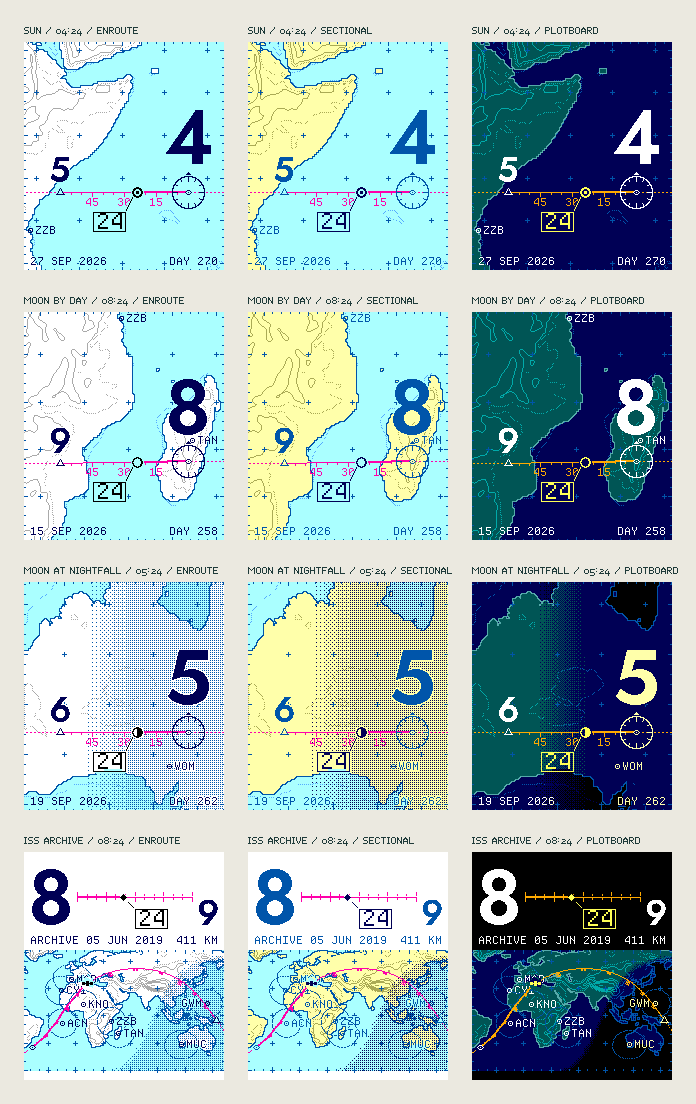
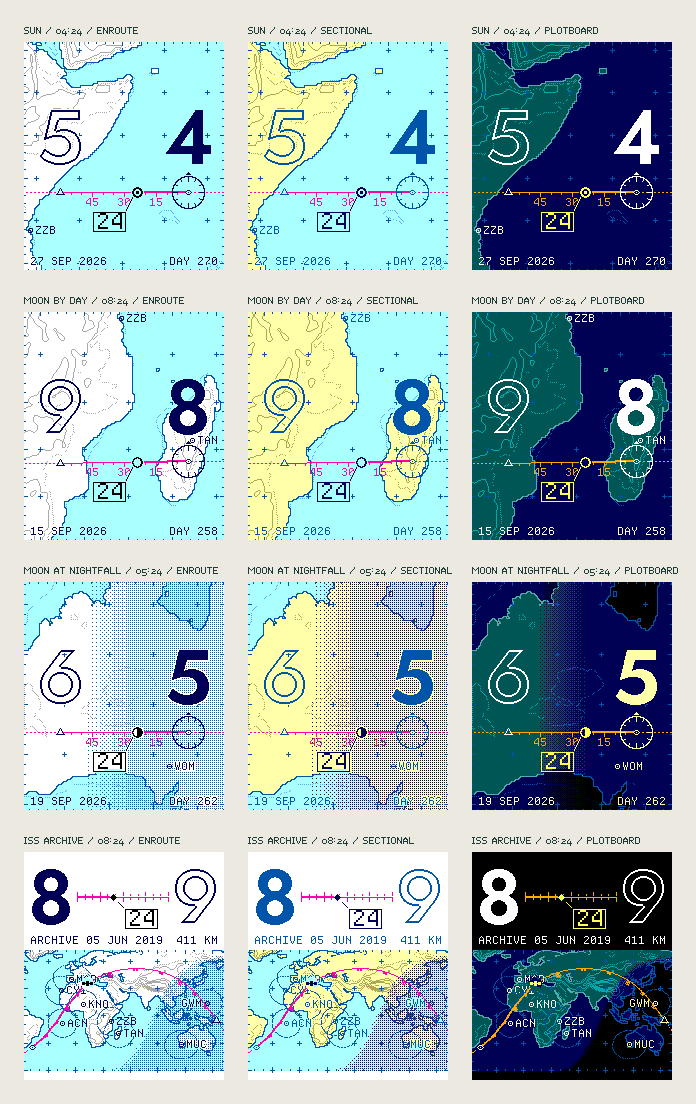
Equal hour figures; track live satellites from CelesTrak
Both hours now share one size and baseline: this hour solid, the next
in outline.

Study 06 can track the ISS, Tiangong, Hubble, Landsat 9 and NOAA-20
from current CelesTrak element sets. Elements are checksum-checked,
cached for two hours as CelesTrak asks, refused beyond three days of
their epoch, and propagated with SGP4. The margin names the element
set in use, uncrewed satellites get their own symbol, and a Now button
brings any view to the current minute. The 2019 ISS archive remains
for offline use and deterministic tests; browser tests intercept
CelesTrak with a re-epoched fixture.

Claude-Session: https://claude.ai/code/session_013jrbqnwLffJYPYurYaCgSZ

diff --git a/index.html b/index.html
@@ -4,14 +4,15 @@
 <main><section class="intro"><div><p class="eyebrow">STUDY 06 / ENROUTE</p><h1>Cleared direct<br>to the next hour.</h1></div><p class="intro-note">An aeronautical chart for the wrist: real relief, a magenta route, and the stations that tracked the first astronauts.</p></section>
 <section class="workshop" aria-label="Enroute watchface study"><div class="stage art-stage"><div class="stage-meta"><span>RELIEF / ROUTE / HOUR</span><span>200 × 228 PX</span></div>
 <div class="watch-wrap"><div class="watch art-case"><canvas id="enroute-watch" width="200" height="228" role="img" aria-label="Enroute watchface"></canvas><span class="watch-mark">pebble</span></div></div><p id="enroute-caption" class="scene-caption">Plotting the route…</p>
-<div class="scrubber"><div class="art-clock-readout"><label for="enroute-minute">Follow the hour</label><output id="enroute-time">04:24</output></div><input id="enroute-minute" type="range" min="0" max="59" value="24"><div class="range-ends"><span id="range-start"></span><button id="enroute-reset">Study moment ↗</button><span id="range-end"></span></div></div></div>
+<div class="scrubber"><div class="art-clock-readout"><label for="enroute-minute">Follow the hour</label><output id="enroute-time">04:24</output></div><input id="enroute-minute" type="range" min="0" max="59" value="24"><div class="range-ends"><span id="range-start"></span><span class="range-actions"><button id="enroute-reset">Study moment ↗</button> · <button id="enroute-now">Now ↗</button></span><span id="range-end"></span></div></div></div>
 <aside class="controls art-controls"><p class="eyebrow">ROUTE &amp; PLATE</p>
 <fieldset><legend>Follow</legend><div class="segmented"><button data-body="sun" aria-pressed="true">Sun</button><button data-body="moon" aria-pressed="false">Moon</button><button data-body="iss" aria-pressed="false">ISS archive</button></div><p class="help" id="body-note"></p></fieldset>
+<fieldset id="live-satellites"><legend>Live satellites</legend><div class="live-row"><select id="sat-select" aria-label="Satellite"></select><button id="sat-track">Track now</button></div><p class="help" id="sat-status">Current orbital elements come from CelesTrak, at most once every two hours per satellite, and are used only within three days of their own epoch.</p></fieldset>
 <fieldset id="moon-light"><legend>Moonlight</legend><div class="segmented"><button data-observation="day" aria-pressed="true">By day</button><button data-observation="dusk" aria-pressed="false">Nightfall</button><button data-observation="night" aria-pressed="false">By night</button></div><p class="help">The same Moon over three evenings. On the paper plates, night is a printed dot tint that deepens through civil twilight.</p></fieldset>
 <fieldset><legend>Plate</legend><div id="enroute-plates" class="theme-options"></div></fieldset>
-<fieldset><legend>Read the chart</legend><p class="help">The large figure is this hour and the small one the next. The symbol between them is the present: its place on the route is the minute, read like a hand. A leader line ties it to a boxed data block with the minute in digits, the way a radar display tags a target; it can be switched off under Clock. The compass rose marks this hour’s station; the open triangle is the next hour’s reporting point. The magenta line is the route, bold behind the marker and fine ahead, with the quarter hours marked. Contours fall every 1,000 m, dotted at 500 m; offshore, the dotted blue line is the 200 m edge of the continental shelf. Three-letter codes are the tracking stations of NASA’s Mercury and Apollo networks. The margin carries the date and its day of the year.</p></fieldset>
+<fieldset><legend>Read the chart</legend><p class="help">The solid figure is this hour and the outlined one the next, set at one size on one baseline. The symbol between them is the present: its place on the route is the minute, read like a hand. A leader line ties it to a boxed data block with the minute in digits, the way a radar display tags a target; it can be switched off under Clock. The compass rose marks this hour’s station; the open triangle is the next hour’s reporting point. The magenta line is the route, bold behind the marker and fine ahead, with the quarter hours marked. Contours fall every 1,000 m, dotted at 500 m; offshore, the dotted blue line is the 200 m edge of the continental shelf. Three-letter codes are the tracking stations of NASA’s Mercury and Apollo networks. The margin carries the date and its day of the year.</p></fieldset>
 <details class="art-options"><summary>Clock</summary><div><label class="select-label" for="enroute-zone">Clock zone<select id="enroute-zone"><option value="America/New_York">Eastern time</option><option value="UTC">UTC</option><option value="Europe/London">London</option><option value="Asia/Kolkata">Kolkata</option></select></label><label class="art-checkbox"><input type="checkbox" id="enroute-24"> 24-hour figures</label><label class="art-checkbox"><input type="checkbox" id="enroute-tag" checked> Minute data block</label></div></details><div class="art-study-date"><span id="enroute-date"></span><span>FROZEN STUDY</span></div></aside></section>
 <section class="compare"><div class="section-heading"><p class="eyebrow">AT READING SIZE</p><p>One display pixel per pixel. The same minute on each plate.</p></div><div id="enroute-proofs" class="comparison-grid"></div></section>
 <section class="reading art-reading"><article><p class="eyebrow">THE CHART</p><h2>Real ground, lightly drawn.</h2><p>Relief comes from NOAA’s ETOPO1 and the USGS GMTED2010 elevation models, generalized and contoured like a jet navigation chart. The continental shelf edge is the real 200 m depth line. Small crosses mark every five degrees, and degree ticks run around the edge like a neatline.</p></article><article><p class="eyebrow">THE ROUTE</p><h2>Two fixes and a magenta line.</h2><p>This hour is a VOR in its compass rose; the next is a reporting point. The route is the magenta line pilots follow on every modern display. The hours stand over their fixes; the minute travels between them in a radar-style data block on a leader line.</p></article><article><p class="eyebrow">THE NETWORK</p><h2>Where the astronauts were heard.</h2><p>Codes like TAN, CRO and GDS mark stations of the Mercury and Apollo tracking networks. For the ISS, each carries its acquisition circle, the reach of a low orbit, as drawn on the world maps of the first mission control rooms.</p></article></section>
-<details class="technical"><summary>About this working study</summary><div><p>This is a browser design study, not an installable watchface. Every watch pixel is one of the display’s 64 RGB222 colors. The map is north-up and equidistant cylindrical; for the Sun and Moon the hour’s two stations sit 128 pixels apart, and the ISS, which travels about 240° of longitude in an hour, is shown on a world band. Scenes are frozen until you interact: there is no animation loop, polling, geolocation or sensor use.</p><p>Coastlines are Natural Earth 1:50m land. Relief is a quarter-degree grid built from the AWS Open Data Terrain Tiles at zoom 3, whose sources there are NOAA ETOPO1 and USGS GMTED2010, both public domain; heights are smoothed before contouring and are not for navigation. Day, civil twilight and night come from the calculated Sun at the selected minute. Tracking-station positions are approximate, from public histories of the networks. Acquisition circles show where a 410 km orbit rises five degrees above each station’s horizon, about 15.6° of arc.</p><p>Sun and Moon positions come from Astronomy Engine. The ISS uses a bounded June 5, 2019 archive from Satellite.js and is not a live prediction. Figures are Jost, after Futura; chart lettering is Departure Mono by Helena Zhang; headlines are Michroma, after Microgramma. All three are SIL OFL 1.1. <a href="./NOTICE.txt">Sources and credits</a>.</p><p id="enroute-diagnostics"></p><p>Other studies: <a href="./study-05.html">chart</a> · <a href="./study-04.html">Shorelight</a> · <a href="./study-03.html">two-ink atlas</a> · <a href="./study-02.html">sculptural globe</a> · <a href="./study-01.html">orbital explorer</a>.</p></div></details>
+<details class="technical"><summary>About this working study</summary><div><p>This is a browser design study, not an installable watchface. Every watch pixel is one of the display’s 64 RGB222 colors. The map is north-up and equidistant cylindrical; for the Sun and Moon the hour’s two stations sit 128 pixels apart, and the ISS, which travels about 240° of longitude in an hour, is shown on a world band. Scenes are frozen until you interact: there is no animation loop, polling, geolocation or sensor use.</p><p>Coastlines are Natural Earth 1:50m land. Relief is a quarter-degree grid built from the AWS Open Data Terrain Tiles at zoom 3, whose sources there are NOAA ETOPO1 and USGS GMTED2010, both public domain; heights are smoothed before contouring and are not for navigation. Day, civil twilight and night come from the calculated Sun at the selected minute. Tracking-station positions are approximate, from public histories of the networks. Acquisition circles show where a 410 km orbit rises five degrees above each station’s horizon, about 15.6° of arc.</p><p>Sun and Moon positions come from Astronomy Engine. The “ISS archive” view uses a bounded June 5, 2019 element set from Satellite.js. Live satellites use current element sets fetched from CelesTrak by this page (at most once every two hours per satellite, and only within three days of their epoch) and propagated with SGP4. Figures are Jost, after Futura; chart lettering is Departure Mono by Helena Zhang; headlines are Michroma, after Microgramma. All three are SIL OFL 1.1. <a href="./NOTICE.txt">Sources and credits</a>.</p><p id="enroute-diagnostics"></p><p>Other studies: <a href="./study-05.html">chart</a> · <a href="./study-04.html">Shorelight</a> · <a href="./study-03.html">two-ink atlas</a> · <a href="./study-02.html">sculptural globe</a> · <a href="./study-01.html">orbital explorer</a>.</p></div></details>
 </main><footer class="page-footer"><span>GROUNDTRACK / STUDY 06</span><span>CLEARED DIRECT TO THE NEXT HOUR.</span></footer><script type="module" src="/src/enroute-app.js"></script></body></html>

diff --git a/src/enroute-app.js b/src/enroute-app.js
@@ -2,6 +2,7 @@ import {EnrouteRenderer,renderEnroute,PLATES,W,H} from './enroute-render.js';
 import {decodeRelief,RELIEF_BYTES} from './relief.js';
 import {MINUTE} from './ephemeris.js';
 import {clockParts} from './render.js';
+import {CATALOG,registerElements,elementsFor,bodyId,catalogEntry,FRESH} from './satellites.js';
 const $=id=>document.getElementById(id);
 // Frozen study moments; Moonlight is one Moon over three evenings.
 export const OBSERVATIONS={day:Date.parse('2026-09-15T12:24:00Z'),dusk:Date.parse('2026-09-19T09:24:00Z'),night:Date.parse('2026-09-20T10:24:00Z')};
@@ -26,10 +27,12 @@ function render(){
   $('enroute-minute').value=Math.round((state.epoch-r.start)/MINUTE);$('enroute-time').textContent=r.time;
   $('range-start').textContent=clockParts(r.start,state.timeZone).text;$('range-end').textContent=clockParts(r.start+60*MINUTE,state.timeZone).text;
   $('enroute-zone').value=state.timeZone;$('enroute-24').checked=state.clock24;$('enroute-tag').checked=state.tag;
-  $('enroute-date').textContent=new Date(state.epoch).toISOString().slice(0,10);$('body-note').textContent=NOTES[state.body];
+  const sat=catalogEntry(state.body),elements=elementsFor(state.body);
+  $('enroute-date').textContent=new Date(state.epoch).toISOString().slice(0,10);$('body-note').textContent=sat?sat.note:NOTES[state.body];
   const lat=r.marker.lat,lon=((r.marker.lon+540)%360)-180,place=`${Math.abs(lat).toFixed(1)}°${lat<0?'S':'N'} ${Math.abs(lon).toFixed(1)}°${lon<0?'W':'E'}`;
   const heard=r.stations.length?` · stations ${r.stations.map(s=>s.code).join(', ')}`:'';
-  $('enroute-caption').textContent=`${state.body==='iss'?'ISS · archived orbit':state.body==='moon'?'Moon · sublunar route':'Sun · subsolar route'} · ${place}${heard}`;
+  const age=elements?`live elements ${Math.round(Math.abs(state.epoch-elements.epoch)/3600000)} h from epoch`:'';
+  $('enroute-caption').textContent=`${sat?`${sat.name} · ${age}`:state.body==='iss'?'ISS · archived orbit':state.body==='moon'?'Moon · sublunar route':'Sun · subsolar route'} · ${place}${heard}`;
   $('enroute-watch').setAttribute('aria-label',`${state.body.toUpperCase()} route at ${r.time}, ${state.timeZone}. Hour ${r.figure.hour}, minute ${r.figure.minute}, next hour ${r.figure.next}. ${PLATES[state.plate].name} plate.`);
   const colors=new Set();for(let i=0;i<r.buf.length;i+=3)colors.add((r.buf[i]<<16)|(r.buf[i+1]<<8)|r.buf[i+2]);
   $('enroute-diagnostics').textContent=`${colors.size} native colors in this frame. ${main.stats.geometryBuilds} chart builds; ${main.stats.lightBuilds} light builds; ${main.stats.renders} renders. No idle redraws.`;
@@ -48,6 +51,34 @@ async function load(name,bytes){
   const response=await fetch(`${import.meta.env.BASE_URL}${name}`);if(!response.ok)throw new Error(`${name} unavailable (${response.status})`);
   const data=new Uint8Array(await response.arrayBuffer());if(data.length!==bytes)throw new Error(`Incomplete ${name}`);return data;
 }
+for(const c of CATALOG){const o=document.createElement('option');o.value=c.norad;o.textContent=`${c.code} · ${c.name}`;$('sat-select').append(o);}
+// CelesTrak asks that the same data not be requested more than once every two
+// hours; elements are cached here and reused until then.
+const CACHE_AGE=2*3600000;
+async function elementsText(norad){
+  const key=`groundtrack-tle-${norad}`;let cached=null;
+  try{cached=JSON.parse(localStorage.getItem(key));}catch{}
+  if(cached&&Date.now()-cached.fetched<CACHE_AGE)return {text:cached.text,from:'cache'};
+  try{
+    const response=await fetch(`https://celestrak.org/NORAD/elements/gp.php?CATNR=${norad}&FORMAT=TLE`);
+    if(!response.ok)throw new Error(`CelesTrak answered ${response.status}`);
+    const text=await response.text();registerElements(text,'celestrak');
+    try{localStorage.setItem(key,JSON.stringify({text,fetched:Date.now()}));}catch{}
+    return {text,from:'CelesTrak'};
+  }catch(error){
+    if(cached)return {text:cached.text,from:'an older cached copy'};
+    throw error;
+  }
+}
+async function track(norad){
+  const c=CATALOG.find(x=>x.norad===norad);$('sat-status').textContent=`Requesting ${c.name} elements…`;
+  try{
+    const {text,from}=await elementsText(norad),e=registerElements(text,from),now=Math.floor(Date.now()/MINUTE)*MINUTE;
+    if(Math.abs(now-e.epoch)>FRESH)throw new Error('the newest elements are more than three days old');
+    state.body=bodyId(norad);state.epoch=now;studyEpoch=now;render();
+    $('sat-status').textContent=`${c.name}: elements from ${from}, epoch ${new Date(e.epoch).toISOString().slice(0,16).replace('T',' ')} UTC. Frozen at this minute; choose Now to catch up.`;
+  }catch(error){$('sat-status').textContent=`Could not track ${c.name}: ${error.message}. The 2019 ISS archive remains available offline.`;}
+}
 try{
   const [land,relief]=await Promise.all([load('land.bin',129600),load('relief.bin',RELIEF_BYTES)]);
   main=new EnrouteRenderer(land,decodeRelief(relief));
@@ -58,10 +89,15 @@ try{
     state.observation=b.dataset.observation;state.epoch=OBSERVATIONS[state.observation];studyEpoch=state.epoch;render();
   }));
   document.querySelectorAll('[data-plate]').forEach(b=>b.addEventListener('click',()=>{state.plate=b.dataset.plate;render();}));
+  $('enroute-now').addEventListener('click',()=>{
+    try{state.epoch=Math.floor(Date.now()/MINUTE)*MINUTE;render();}
+    catch(error){$('sat-status').textContent=`${error.message}. Choose Track now to refresh the elements.`;state.epoch=studyEpoch;render();}
+  });
+  $('sat-track').addEventListener('click',()=>track(Number($('sat-select').value)));
   $('enroute-minute').addEventListener('input',()=>{state.epoch=main.last.start+Number($('enroute-minute').value)*MINUTE;render();});
   $('enroute-reset').addEventListener('click',()=>{state.epoch=studyEpoch;render();});
   $('enroute-zone').addEventListener('change',()=>{state.timeZone=$('enroute-zone').value;render();});
   $('enroute-24').addEventListener('change',()=>{state.clock24=$('enroute-24').checked;render();});
   $('enroute-tag').addEventListener('change',()=>{state.tag=$('enroute-tag').checked;render();});
-  render();window.groundtrackEnroute={ready:true,state,main,render,demos:DEMOS,observations:OBSERVATIONS};
+  render();window.groundtrackEnroute={ready:true,state,main,render,track,demos:DEMOS,observations:OBSERVATIONS};
 }catch(error){$('enroute-caption').textContent=`The chart could not load: ${error.message}. Please reload.`;console.error(error);}

diff --git a/src/enroute-render.js b/src/enroute-render.js
@@ -12,6 +12,7 @@ import {reliefAt} from './relief.js';
 import numerals from '../data/enroute-font.json' with {type:'json'};
 import departure from '../data/departure-font.json' with {type:'json'};
 import network from '../data/tracking-stations.json' with {type:'json'};
+import {catalogEntry,elementsFor} from './satellites.js';
 
 export {W,H};
 const hex=c=>[1,3,5].map(i=>parseInt(c.slice(i,i+2),16));
@@ -41,7 +42,7 @@ export const CONTOURS=[500,1000,2000,3000,4000,5000],SHELF=-200;
 // above a station's horizon (about 15.6 degrees of arc).
 const EARTH=6371,ORBIT=410,MASK=5*RAD;
 export const ACQUISITION=(Math.acos(EARTH*Math.cos(MASK)/(EARTH+ORBIT))-MASK)/RAD;
-export const FIGURE={hour:80,hourTwo:72,minute:36,next:36};
+export const FIGURE={hour:80,hourTwo:72};
 // Chart lettering: Departure Mono, drawn on the display's own pixel grid.
 const LABEL=departure.regular,TAG=departure.double;
 
@@ -205,16 +206,22 @@ export function renderEnroute({camera,ground,relief,light:zones,plate,epoch,time
     // The Moon in its calculated phase; a rim keeps a new Moon visible.
     const {fraction,waxing}=moonLight(epoch),r=5.2;
     disc(mx,my,r,(x,y,dx,dy)=>{const edge=Math.sqrt(Math.max(0,r*r-dy*dy)),side=waxing?dx:-dx;if(side>=(1-2*fraction)*edge||dx*dx+dy*dy>(r-1.2)**2)plot(buf,x,y,mk);});
+  }else if(catalogEntry(camera.body)?.symbol==='satellite'){
+    // An uncrewed satellite: a small body between two panels.
+    for(let k=-1;k<=1;k++)for(let d=-1;d<=1;d++)plot(buf,mx+d,my+k,mk);
+    for(const side of [-1,1]){for(let k=2;k<=3;k++)plot(buf,mx+side*k,my,mk);for(let k=4;k<=6;k++)for(let d=-2;d<=2;d++)if(Math.abs(d)===2||k===4||k===6)plot(buf,mx+side*k,my+d,mk);}
   }else{
     for(let k=-5;k<=5;k++){plot(buf,mx+k,my,mk);if(Math.abs(k)>=3){plot(buf,mx+k,my-1,mk);plot(buf,mx+k,my+1,mk);}}
     for(let k=-2;k<=2;k++)for(let d=-1;d<=1;d++)plot(buf,mx+d,my+k,mk);
   }
   // The hours stand over their stations: this hour large, the next smaller.
   const parts=clockParts(epoch,timeZone),h=Number(parts.h),hour=String(clock24?h:h%12||12),next=String(clock24?(h+1)%24:(h+1)%12||12);
-  const big=hour.length>1?FIGURE.hourTwo:FIGURE.hour,hw=runWidth(hour,big),nw=runWidth(next,FIGURE.next);
+  // Both hours share one size and one baseline; the next is drawn in outline.
+  const big=hour.length>1||next.length>1?FIGURE.hourTwo:FIGURE.hour,hw=runWidth(hour,big),nw=runWidth(next,big);
   const gx=Math.max(8,Math.min(W-8-hw,Math.round(c0.x-hw/2))),gy=camera.world?Math.round((top-runHeight(big))/2)-4:c0.y-26-runHeight(big);
-  const nx=Math.max(6,Math.min(W-6-nw,Math.round(c1.x-nw/2))),ny=camera.world?gy+runHeight(big)-runHeight(FIGURE.next):c1.y-10-runHeight(FIGURE.next);
-  const hourPixels=figurePixels(hour,big,gx,gy),nextPixels=figurePixels(next,FIGURE.next,nx,ny);
+  const nx=Math.max(8,Math.min(W-8-nw,Math.round(c1.x-nw/2))),ny=gy;
+  const hourPixels=figurePixels(hour,big,gx,gy),nextSolid=figurePixels(next,big,nx,ny),inside=new Set(nextSolid.map(([a,b])=>a+','+b));
+  const nextPixels=nextSolid.filter(([a,b])=>[[1,0],[-1,0],[0,1],[0,-1],[2,0],[-2,0],[0,2],[0,-2]].some(([dx,dy])=>!inside.has((a+dx)+','+(b+dy))));
   letter(hourPixels,ink('ink'));letter(nextPixels,ink('ink'));
   // The minute rides with the body in a data block, as a radar display tags
   // a target: a leader line from the symbol to a boxed readout. It points
@@ -248,14 +255,17 @@ export function renderEnroute({camera,ground,relief,light:zones,plate,epoch,time
   const margin=(l,r,y,color)=>{letter(textPixels(LABEL,l,6,y),color,1);letter(textPixels(LABEL,r,W-6-textWidth(LABEL,r),y),color,1);};
   const MONTHS='JAN FEB MAR APR MAY JUN JUL AUG SEP OCT NOV DEC'.split(' ');
   if(camera.world){
-    const date=new Date(epoch);
-    margin(`ARCHIVE ${String(date.getUTCDate()).padStart(2,'0')} ${MONTHS[date.getUTCMonth()]} ${date.getUTCFullYear()}`,`${Math.round(body.altitude)} KM`,top-6,()=>pal.spaceInk);
+    // Satellites say where their numbers come from: the 2019 archive, or
+    // the epoch of the live element set in use.
+    const elements=elementsFor(camera.body),date=new Date(elements?elements.epoch:epoch),day=String(date.getUTCDate()).padStart(2,'0');
+    const source=elements?`${elements.catalog?.code||'SAT'} EL ${day} ${MONTHS[date.getUTCMonth()]} ${String(date.getUTCHours()).padStart(2,'0')}${String(date.getUTCMinutes()).padStart(2,'0')}Z`:`ARCHIVE ${day} ${MONTHS[date.getUTCMonth()]} ${date.getUTCFullYear()}`;
+    margin(source,`${Math.round(body.altitude)} KM`,top-6,()=>pal.spaceInk);
   }else{
     const d=localDate(epoch,timeZone);
     margin(`${String(d.day).padStart(2,'0')} ${MONTHS[d.month-1]} ${d.year}`,`DAY ${String(d.dayOfYear).padStart(3,'0')}`,H-5,ink('ink'));
   }
   return {buf,marker:{x:p.x,y:p.y,lat:body.lat,lon:body.lon},stations,
-    figure:{hour,minute:parts.m,next,box:bounds(hourPixels),nextBox:bounds(nextPixels),tag:tagBox},rose:camera.world?null:{...c0,r:20}};
+    figure:{hour,minute:parts.m,next,box:bounds(hourPixels),nextBox:bounds(nextSolid),tag:tagBox},rose:camera.world?null:{...c0,r:20}};
 }
 // The calendar date where the watch is, and its day of the year.
 const dateFormats=new Map();

diff --git a/src/satellites.js b/src/satellites.js
@@ -1,0 +1,49 @@
+// Live satellites. General-perturbations element sets (TLEs) are fetched
+// from CelesTrak by the page (or, on a watch, by the phone), checked, and
+// registered here; positions come from SGP4 via Satellite.js. An element set
+// is only used within FRESH of its own epoch: older elements are refused
+// rather than shown as a current position.
+import {twoline2satrec,propagate,gstime,eciToGeodetic} from 'satellite.js';
+import {direction,RAD} from './geometry.js';
+
+export const FRESH=3*24*3600000;
+// Worth following, and different from each other. Ids are NORAD catalog
+// numbers.
+export const CATALOG=[
+  {norad:25544,code:'ISS',name:'International Space Station',symbol:'station',note:'Crewed since 2000. 51.6° orbit, about 92 minutes a lap.'},
+  {norad:48274,code:'CSS',name:'Tiangong',symbol:'station',note:'China’s space station. 41.5° orbit, about 92 minutes.'},
+  {norad:20580,code:'HST',name:'Hubble Space Telescope',symbol:'satellite',note:'Launched 1990. 28.5° orbit, about 95 minutes.'},
+  {norad:49260,code:'LS9',name:'Landsat 9',symbol:'satellite',note:'Sun-synchronous: crosses the equator southbound near 10:00 local time on every pass.'},
+  {norad:43013,code:'N20',name:'NOAA-20',symbol:'satellite',note:'Polar weather satellite in the “afternoon” orbit, crossing near 13:30 local time.'}
+];
+export const bodyId=norad=>`sat:${norad}`;
+export const catalogEntry=body=>CATALOG.find(c=>bodyId(c.norad)===body);
+
+// TLE line checksum: digits count their value, minus signs count one.
+export const checksum=line=>[...line.slice(0,68)].reduce((s,c)=>s+(c==='-'?1:/\d/.test(c)?Number(c):0),0)%10;
+export function parseTLE(text){
+  const lines=text.split(/\r?\n/).map(l=>l.trimEnd()).filter(Boolean),l1=lines.find(l=>l.startsWith('1 ')),l2=lines.find(l=>l.startsWith('2 '));
+  if(!l1||!l2||l1.length<69||l2.length<69)throw new Error('Not a two-line element set');
+  for(const l of [l1,l2])if(checksum(l)!==Number(l[68]))throw new Error('Element set checksum failed');
+  if(l1.slice(2,7)!==l2.slice(2,7))throw new Error('Element lines describe different objects');
+  const year=Number(l1.slice(18,20)),day=Number(l1.slice(20,32));
+  const epoch=Date.UTC(year<57?2000+year:1900+year,0,1)+(day-1)*86400000;
+  return {norad:Number(l1.slice(2,7)),lines:[l1,l2],epoch};
+}
+
+const registry=new Map();
+export function registerElements(text,source){
+  const tle=parseTLE(text),satrec=twoline2satrec(...tle.lines);
+  if(satrec.error)throw new Error(`SGP4 rejected the elements (${satrec.error})`);
+  const entry={...tle,satrec,source,catalog:CATALOG.find(c=>c.norad===tle.norad)};
+  registry.set(bodyId(tle.norad),entry);return entry;
+}
+export const elementsFor=body=>registry.get(body);
+export function satellitePosition(body,epoch){
+  const e=registry.get(body);if(!e)throw new RangeError(`No elements loaded for ${body}`);
+  if(Math.abs(epoch-e.epoch)>FRESH)throw new RangeError(`Elements for ${e.catalog?.code||body} are more than three days from this time`);
+  const date=new Date(epoch),state=propagate(e.satrec,date);
+  if(!state?.position)throw new Error('Propagation failed');
+  const p=eciToGeodetic(state.position,gstime(date)),lat=p.latitude/RAD,lon=p.longitude/RAD;
+  return {lat,lon,dir:direction(lat,lon),altitude:p.height};
+}

diff --git a/src/chart-style.css b/src/chart-style.css
@@ -18,3 +18,5 @@
 .enroute-page legend{font-family:var(--sans);font-weight:500;font-size:14px}.enroute-page .help{font-size:13px}.enroute-page .scene-caption{font-family:var(--mono)!important}
 @media(max-width:760px){.enroute-page .intro h1{font-size:25px}.enroute-page .intro-note{font-size:15px}}
 .enroute-page .help{font-size:14px}.enroute-page .segmented button{font-size:14px}.enroute-page .reading article>p:last-child{font-size:15px}.enroute-page .section-heading>p:last-child{font-size:14px}.enroute-page .theme-options button{font-size:13px}.enroute-page .technical{font-size:14px}
+.enroute-page .live-row{display:flex;gap:8px}.enroute-page .live-row select{flex:1;max-width:none;font:14px var(--sans);padding:9px}.enroute-page .live-row button{border:1px solid var(--ink);background:var(--ink);color:var(--paper);padding:9px 14px;font:14px var(--sans)}.enroute-page .range-actions button{font:inherit;border:0;background:none;padding:0;text-decoration:underline;text-underline-offset:3px}
+.enroute-page .live-row select{min-width:0;width:100%}.enroute-page .live-row{min-width:0}.enroute-page .range-ends{flex-wrap:wrap;row-gap:6px}

diff --git a/src/ephemeris.js b/src/ephemeris.js
@@ -2,6 +2,7 @@ import {Body,GeoVector,RotateVector,Rotation_EQJ_EQD,EquatorFromVector,SiderealT
 import {twoline2satrec,propagate,gstime,eciToGeodetic} from 'satellite.js';
 import iss from '../data/iss.json' with {type:'json'};
 import {direction,wrap,RAD} from './geometry.js';
+import {satellitePosition} from './satellites.js';
 const satrec=twoline2satrec(...iss.tle);
 export const MINUTE=60000;
 export const BODIES={
@@ -10,6 +11,8 @@ export const BODIES={
   iss:{name:'ISS',label:'ISS / ARCHIVE',kind:'satellite',demo:Date.parse('2019-06-05T12:24:00Z'),window:90,cameraMinutes:10}
 };
 export function position(body,epoch){
+  // Live satellites registered from element sets: see satellites.js.
+  if(typeof body==='string'&&body.startsWith('sat:')){if(!Number.isFinite(epoch))throw new RangeError('Invalid time');return satellitePosition(body,epoch);}
   if(!BODIES[body]||!Number.isFinite(epoch))throw new RangeError('Unknown body or invalid time');
   const date=new Date(epoch);
   if(body==='iss'){

diff --git a/src/chart-render.js b/src/chart-render.js
@@ -41,7 +41,7 @@ export const CHARTS={
 // so it gets the whole world in a band, with its hours set in the margins.
 export const SPAN=128,TRACK_Y=150,WORLD={south:-60,north:72,bottom:H-10};
 export function chartCamera(body,start){
-  const world=body==='iss',step=world?MINUTE/4:MINUTE,lead=(world?20:40)*MINUTE;
+  const world=body!=='sun'&&body!=='moon',step=world?MINUTE/4:MINUTE,lead=(world?20:40)*MINUTE;
   const raw=sampleTrack(body,start-lead,start+60*MINUTE+lead,step);
   // Unwrap longitude so the route is continuous across the antimeridian.
   let turn=0;const track=raw.map((p,i)=>{

diff --git a/tools/generate-enroute-font.py b/tools/generate-enroute-font.py
@@ -12,7 +12,7 @@ from PIL import Image, ImageDraw, ImageFont
 
 root = Path(__file__).resolve().parent.parent
 WEIGHT = 600
-HEIGHTS = {'36': 25, '72': 49, '80': 55}  # minutes and next hour, two-digit hour, hour
+HEIGHTS = {'72': 49, '80': 55}  # two-digit hours, single-digit hours
 
 
 def font(size):

diff --git a/docs/STUDY-06.md b/docs/STUDY-06.md
@@ -11,7 +11,7 @@ The Study 05 chart, redrawn in the language of aeronautical charts and of NASA's
 - **Graticule.** Small crosses every 5° (30° on the ISS world band). Degree ticks run around the edge of the map like a chart's neatline, with a longer tick every 5°.
 - **The route.** The magenta line, which pilots follow on every glass cockpit. It is bold behind the marker, fine ahead and dashed before and after the hour. Ticks mark five minutes, with longer ticks labelled 15, 30 and 45 at the quarters, as on a plotted ground track.
 - **Fixes.** This hour's station is a VOR: a hexagon inside a compass rose, with 30° ticks, longer cardinal ticks and a north arrowhead. The next hour is an open triangle, a reporting point. The map is north-up, so the rose shows true north, not magnetic variation.
-- **The time.** The hour stands large over this hour's station and the next hour smaller over its reporting point. The minute is not attached to the hour: it travels between them. The body's place on the route is the analog reading. A leader line ties the body to a boxed **data block** with the minute in Departure Mono digits, the way a radar display tags a target with a leader line and a data block. The block always points toward the middle of the screen, drops below the route's quarter marks, and can be switched off to leave a purely analog read. On the ISS band the hour runs on a **railway** between the two figures instead: a line with ties every five minutes, bold where the hour has run, a diamond at the present and the same data block beneath it.
+- **The time.** Both hours are set at one size on one baseline, each over its station: this hour solid, the next in a two-pixel outline, because it has not arrived yet. The minute is not attached to the hour: it travels between them. The body's place on the route is the analog reading. A leader line ties the body to a boxed **data block** with the minute in Departure Mono digits, the way a radar display tags a target with a leader line and a data block. The block always points toward the middle of the screen, drops below the route's quarter marks, and can be switched off to leave a purely analog read. On the ISS band the hour runs on a **railway** between the two figures instead: a line with ties every five minutes, bold where the hour has run, a diamond at the present and the same data block beneath it.
 - **Date.** The zoomed views print the local date and its day of the year in the bottom margin (`27 SEP 2026 · DAY 270`). The day of the year is how Mission Control's clocks counted days. The ISS margin keeps its archive date and altitude.
 - **The present.** The body's own symbol: ☉ for the Sun, the Moon in its calculated phase, or a small station for the ISS.
 - **The network.** Twenty-four stations of the Mercury (1961–63) and Apollo (1967–75) tracking networks, drawn as circled points with their network codes. Examples include TAN (Tananarive, Madagascar), ZZB (Zanzibar), CRO (Carnarvon) and GDS (Goldstone). When labels would collide, the station earlier in the list wins.
@@ -19,6 +19,20 @@ The Study 05 chart, redrawn in the language of aeronautical charts and of NASA's
 - **Type.** The figures are set in Jost (SIL OFL 1.1), a revival of Futura, the face of the Apollo 11 plaque and many mission patches. Jost replaced Fira Sans after a side-by-side test on the face. Barlow (a DIN-style face) was the close second; Michroma was too wide for the figures at this size. The chart lettering (station codes, quarter-hour marks and margin notes) is [Departure Mono](https://github.com/rektdeckard/departure-mono) (SIL OFL 1.1). It is a pixel face drawn on an 11 px grid, so at 11 px every pixel is fully on or off. A double-size Departure minute set directly after the hour looked spindly, but the same digits work well as the separate data block. On the page, headlines use Michroma (after Microgramma, the lettering of 1960s space hardware), text uses Jost, and small type uses Departure Mono.
 - **Honest margins.** The ISS view states `ARCHIVE 05 JUN 2019` and the station's altitude, because it is a bounded archive, not live data.
 - **Night.** The paper plates print night as a regular dot screen under every symbol. The screen deepens from nothing at sunset to 25% at the end of civil twilight, which is how a printed chart would overprint a tint. The Plotboard keeps flat light zones.
+
+## Live satellites
+
+The ISS archive view stays, because it works offline and keeps the tests deterministic. Alongside it, the page can now track five satellites live:
+- **ISS** and **Tiangong**, the two crewed stations;
+- the **Hubble Space Telescope**;
+- **Landsat 9**, sun-synchronous, so its passes cross each latitude at the same local time;
+- **NOAA-20**, a polar weather satellite.
+
+Choosing *Track now* fetches the satellite's current element set from CelesTrak and checks its checksums. The positions are then propagated with SGP4. Following CelesTrak's usage policy, a satellite's elements are requested at most once every two hours and cached in the browser. Elements are used only within three days of their own epoch. Beyond that the renderer refuses rather than guessing. If the request fails, the page says so; a stale cached copy can still be used if it is within three days. The margin names the element set in use (for example `HST EL 29 SEP 1336Z`), and uncrewed satellites get their own symbol, a body between two panels. *Now* brings any view to the current minute, and the face stays frozen until the next interaction.
+
+On a watch, the phone would fetch and propagate the elements and send the watch compact trajectory knots, as measured in `docs/ENERGY.md`. The watch would never talk to CelesTrak.
+
+This cloud build environment blocks celestrak.org, so the tests replace CelesTrak with an intercepted fixture: the 2019 ISS elements moved to the current epoch. Real requests happen only in a viewer's browser.
 
 ## Plates
 

diff --git a/README.md b/README.md
@@ -15,7 +15,7 @@ npm ci
 npm run dev
 ```
 
-Open the URL printed by Vite. **Study 06 — Enroute** is the default. It draws in the language of aeronautical charts and 1960s mission control plotboards: contour relief and the continental shelf edge from public-domain elevation data, a graticule with neatline ticks, and the magenta route. A VOR compass rose marks this hour and a reporting point the next. The hour is set large with its minutes raised, and Mercury and Apollo tracking stations appear with their network codes. Three plates are provided: Enroute (IFR white), Sectional (VFR cream) and Plotboard (mission control). [The Study 06 notes](docs/STUDY-06.md) describe each symbol, the data and the exploration.
+Open the URL printed by Vite. **Study 06 — Enroute** is the default. It draws in the language of aeronautical charts and 1960s mission control plotboards: contour relief and the continental shelf edge from public-domain elevation data, a graticule with neatline ticks, and the magenta route. A VOR compass rose marks this hour and a reporting point the next. The hour is set large with its minutes raised, and Mercury and Apollo tracking stations appear with their network codes. Three plates are provided: Enroute (IFR white), Sectional (VFR cream) and Plotboard (mission control). Five satellites can be tracked live from CelesTrak element sets: ISS, Tiangong, Hubble, Landsat 9 and NOAA-20. [The Study 06 notes](docs/STUDY-06.md) describe each symbol, the data and the exploration.
 
 **Study 05** remains at `/study-05.html`: the flat north-up chart that salvaged the earlier studies ([notes](docs/STUDY-05.md)). **Study 04** remains at `/study-04.html`: Shorelight, with shallow relief monuments and spatial color mixing. **Study 03** remains at `/study-03.html`: a two-ink repeated Fuller atlas with geographic context. **Study 02** remains at `/study-02.html`: rounded hour towers above a perspective globe. **Study 01** remains at `/study-01.html`: the initial landscape, oblique and globe exploration. All six studies stay frozen until you interact. No location or motion sensor is used.
 
@@ -27,7 +27,7 @@ Sun and Moon positions use Astronomy Engine. The same calculated Sun supplies St
 
 Studies 03 and 04 use [Philippe Rivière's public-domain Gray–Fuller triangle transform](https://observablehq.com/@fil/buckminster-fullers-triangle-transformation). Its repeated layout is not the canonical Airocean net. Five faces meet at an icosahedral vertex, six in a flat triangle grid: incompatible joins are therefore marked as cuts. Paths break and resume beside matching marks. It does not claim a globally seamless map.
 
-ISS uses Satellite.js with its published June 5, 2019 example TLE, is labeled `ARCHIVE`, and refuses extrapolation beyond a day from that epoch. There is no live satellite catalog or background polling. Cities use Natural Earth public-domain data; their lights are symbolic, limited night-side markers.
+ISS uses Satellite.js with its published June 5, 2019 example TLE, is labeled `ARCHIVE`, and refuses extrapolation beyond a day from that epoch. Study 06 can fetch current element sets from CelesTrak on request (cached two hours, used within three days of epoch); there is no background polling. Cities use Natural Earth public-domain data; their lights are symbolic, limited night-side markers.
 
 ## Verification and measurement
 
